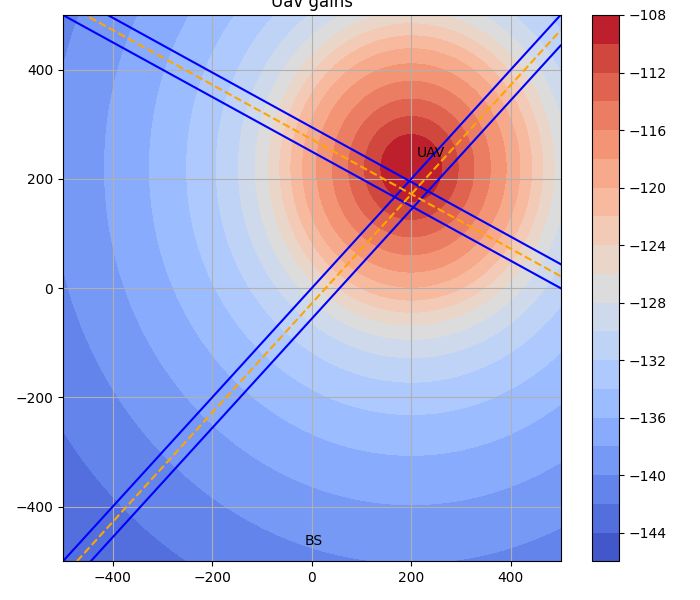
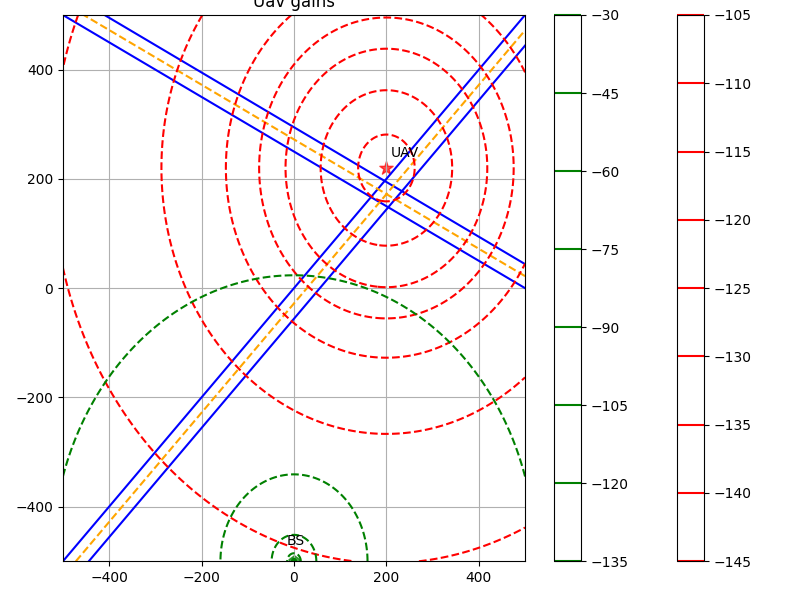
contour density gains

diff --git a/examples/plot_synthetic.py b/examples/plot_synthetic.py
@@ -137,10 +137,11 @@ def plot_location_ani(log_file, fig_file):
     # Save and show animation
     ani.save(fig_file, writer='imagemagick', fps=24)
 
-def plot_maps(fig_size=(8, 8)): 
+def plot_maps(fig_size=(8, 8), nrows=1, ncols=1): 
     # plot map 
-    fig, ax = plt.subplots(figsize=fig_size)
-    
+    fig, ax = plt.subplots(nrows=nrows, ncols=ncols, figsize=fig_size, squeeze=False)
+    # fig, ax = plt.subplots(nrows=nrows, ncols=ncols, squeeze=False)
+
     # plot road map 
     x11 = [-410, 500]; x12 = [500, 44] 
     x21 = [-500, 500]; x22 = [500, 0]
@@ -149,59 +150,72 @@ def plot_maps(fig_size=(8, 8)):
     xmid11 = [500, 22]; xmid12 = [-455, 500]
     xmid21 = [-472, -500]; xmid22 = [500, 472]
 
-    plt.plot([x11[0], x12[0]], [x11[1], x12[1]], color='blue')
-    plt.plot([x21[0], x22[0]], [x21[1], x22[1]], color='blue')
-    plt.plot([x31[0], x32[0]], [x31[1], x32[1]], color='blue')
-    plt.plot([x41[0], x42[0]], [x41[1], x42[1]], color='blue')
-    
-    plt.plot([xmid11[0], xmid12[0]], [xmid11[1], xmid12[1]], color='orange', linestyle='--')   
-    plt.plot([xmid21[0], xmid22[0]], [xmid21[1], xmid22[1]], color='orange', linestyle='--')
-
     # plot uav, bs 
     uav_x, uav_y = x_uav, y_uav
     bs_x, bs_y = x_bs, y_bs
-    ax.scatter([uav_x], [uav_y], marker="*", s=100, alpha=0.7, c='red')
-    ax.annotate('UAV', (uav_x+10, uav_y+20))
-    ax.scatter([bs_x], [bs_y], marker="p", s=70, alpha=0.7, c='green')
-    ax.annotate('BS', (bs_x-15, bs_y+30))
+    for i in range(nrows):
+        for j in range(ncols): 
+            ax[i][j].plot([x11[0], x12[0]], [x11[1], x12[1]], color='blue')
+            ax[i][j].plot([x21[0], x22[0]], [x21[1], x22[1]], color='blue')
+            ax[i][j].plot([x31[0], x32[0]], [x31[1], x32[1]], color='blue')
+            ax[i][j].plot([x41[0], x42[0]], [x41[1], x42[1]], color='blue')
+            
+            ax[i][j].plot([xmid11[0], xmid12[0]], [xmid11[1], xmid12[1]], color='orange', linestyle='--')   
+            ax[i][j].plot([xmid21[0], xmid22[0]], [xmid21[1], xmid22[1]], color='orange', linestyle='--')
 
-    ax.set_xlim(-500, 500)
-    ax.set_ylim(-500, 500)
-    ax.grid(which='both')
-    # Ensure the entire plot is visible 
-    fig.tight_layout()
+            ax[i][j].scatter([uav_x], [uav_y], marker="*", s=100, alpha=0.7, c='red')
+            ax[i][j].annotate('UAV', (uav_x+10, uav_y+20))
+            ax[i][j].scatter([bs_x], [bs_y], marker="p", s=70, alpha=0.7, c='green')
+            ax[i][j].annotate('BS', (bs_x-15, bs_y+30))
 
+            ax[i][j].set_xlim(-500, 500)
+            ax[i][j].set_ylim(-500, 500)
+            ax[i][j].grid(which='both')
+    
+    # Ensure the entire plot is visible
+    # fig.tight_layout()
     return fig, ax 
 
+def test_plot_maps(nrows=1, ncols=1):
+    fig, ax = plot_maps(nrows=nrows, ncols=ncols)
+    plt.savefig("./figures/maps.png")
+
 def plot_gain_density(): 
-    # plot map 
-    
+    # maps 
     x = np.linspace(-500, 500, 1000)
     y = np.linspace(-500, 500, 1000)
     X, Y = np.meshgrid(x, y)
-
+    
+    # calculate gains  
     uav_gains = calc_uav_gains(X, Y)
     bs_gains = calc_bs_gains(X, Y)
     
     uav_gains_db = 10 * np.log10(uav_gains)
     bs_gains_db = 10 * np.log10(bs_gains)
 
-    fig, ax = plot_maps(fig_size=(7, 6))
-    ax.set_xlim(-500, 500)
-    ax.set_ylim(-500, 500)
-    plt.contourf(X, Y, uav_gains_db, 20, cmap='coolwarm')
-    plt.colorbar()
-    plt.title('Uav gains')
-    plt.savefig('./figures/gain_density_uav.png')
-    plt.close()
+    # plot maps 
+    fig, ax = plot_maps(fig_size=(11, 5), nrows=1, ncols=2)
+    
+    # calculate max, min of color level 
+    cmin = min(uav_gains_db.min(), bs_gains_db.min())
+    cmax = max(uav_gains_db.max(), bs_gains_db.max())
+    color_levels = np.linspace(start=cmin, stop=cmax, num=20)
+    color_map = 'coolwarm'
 
-    fig, ax = plot_maps(fig_size=(7, 6))
-    ax.set_xlim(-500, 500)
-    ax.set_ylim(-500, 500)
-    plt.contourf(X, Y, bs_gains_db, 20, cmap='coolwarm')
-    plt.colorbar()
-    plt.title('Bs gains')
-    plt.savefig('./figures/gain_density_bs.png')
+    # plot data 
+    color = ax[0, 0].contourf(X, Y, uav_gains_db, cmap=color_map, levels=color_levels)
+    ax[0, 1].contourf(X, Y, bs_gains_db, cmap=color_map, levels=color_levels)
+
+    # adding color bar
+    cax = fig.add_axes([0.92, 0.11, 0.02, 0.77]) # rect([left, bottom, width, height])
+    cbar = fig.colorbar(color, cax=cax, orientation='vertical')
+
+    # customize the colorbar
+    # cbar.ax.set_ylabel('Gain (dB)', fontweight='bold')
+    # cbar.ax.set_yticks(ticks=[-0.70, -0.35, 0.00, 0.35, 0.7])
+    # cbar.ax.set_yticklabels([-0.70, -0.35, 0.00, 0.35, 0.7], rotation='vertical', va='center')
+
+    plt.savefig('./figures/gain_density.png')
     plt.close()
 
 def plot_tien(log_file, fig_file_time, fig_file_ene): 
@@ -303,7 +317,7 @@ def test_combine():
 
 def main(): 
     sce_idx = read_options()['sce_idx']
-    test_system_model(index=sce_idx)    
+    test_system_model(index=sce_idx)
 
 if __name__=='__main__':
     # plot_location_act()
@@ -313,3 +327,4 @@ if __name__=='__main__':
     # plot_location_ani('./logs/location_model.log', './figures/location_ani.gif')
     # main()
     plot_gain_density()
+    # test_plot_maps(1, 1)

diff --git a/examples/network_utils.py b/examples/network_utils.py
@@ -72,8 +72,8 @@ def calc_bs_gains(xs, ys):
     bs_gains = A_d * np.power((c / (4 * np.pi * f_c * dists)), de_r) 
     
     # LOG TRACE 
-    print(f"dists_bs = {dists}")
-    print(f"bs_gains = {bs_gains}")
+    # print(f"dists_bs = {dists}")
+    # print(f"bs_gains = {bs_gains}")
 
     return bs_gains 
 
@@ -91,7 +91,7 @@ def calc_uav_gains(xs, ys):
     uav_gains = ((pLoSs + alpha * (1 - pLoSs)) * g_0) / (np.power(dists, de_u)) # (N, )
 
     # LOG TRACE
-    print(f"dists_uav = {dists}")
-    print(f"uav_gains = {uav_gains}")
+    # print(f"dists_uav = {dists}")
+    # print(f"uav_gains = {uav_gains}")
 
     return uav_gains
